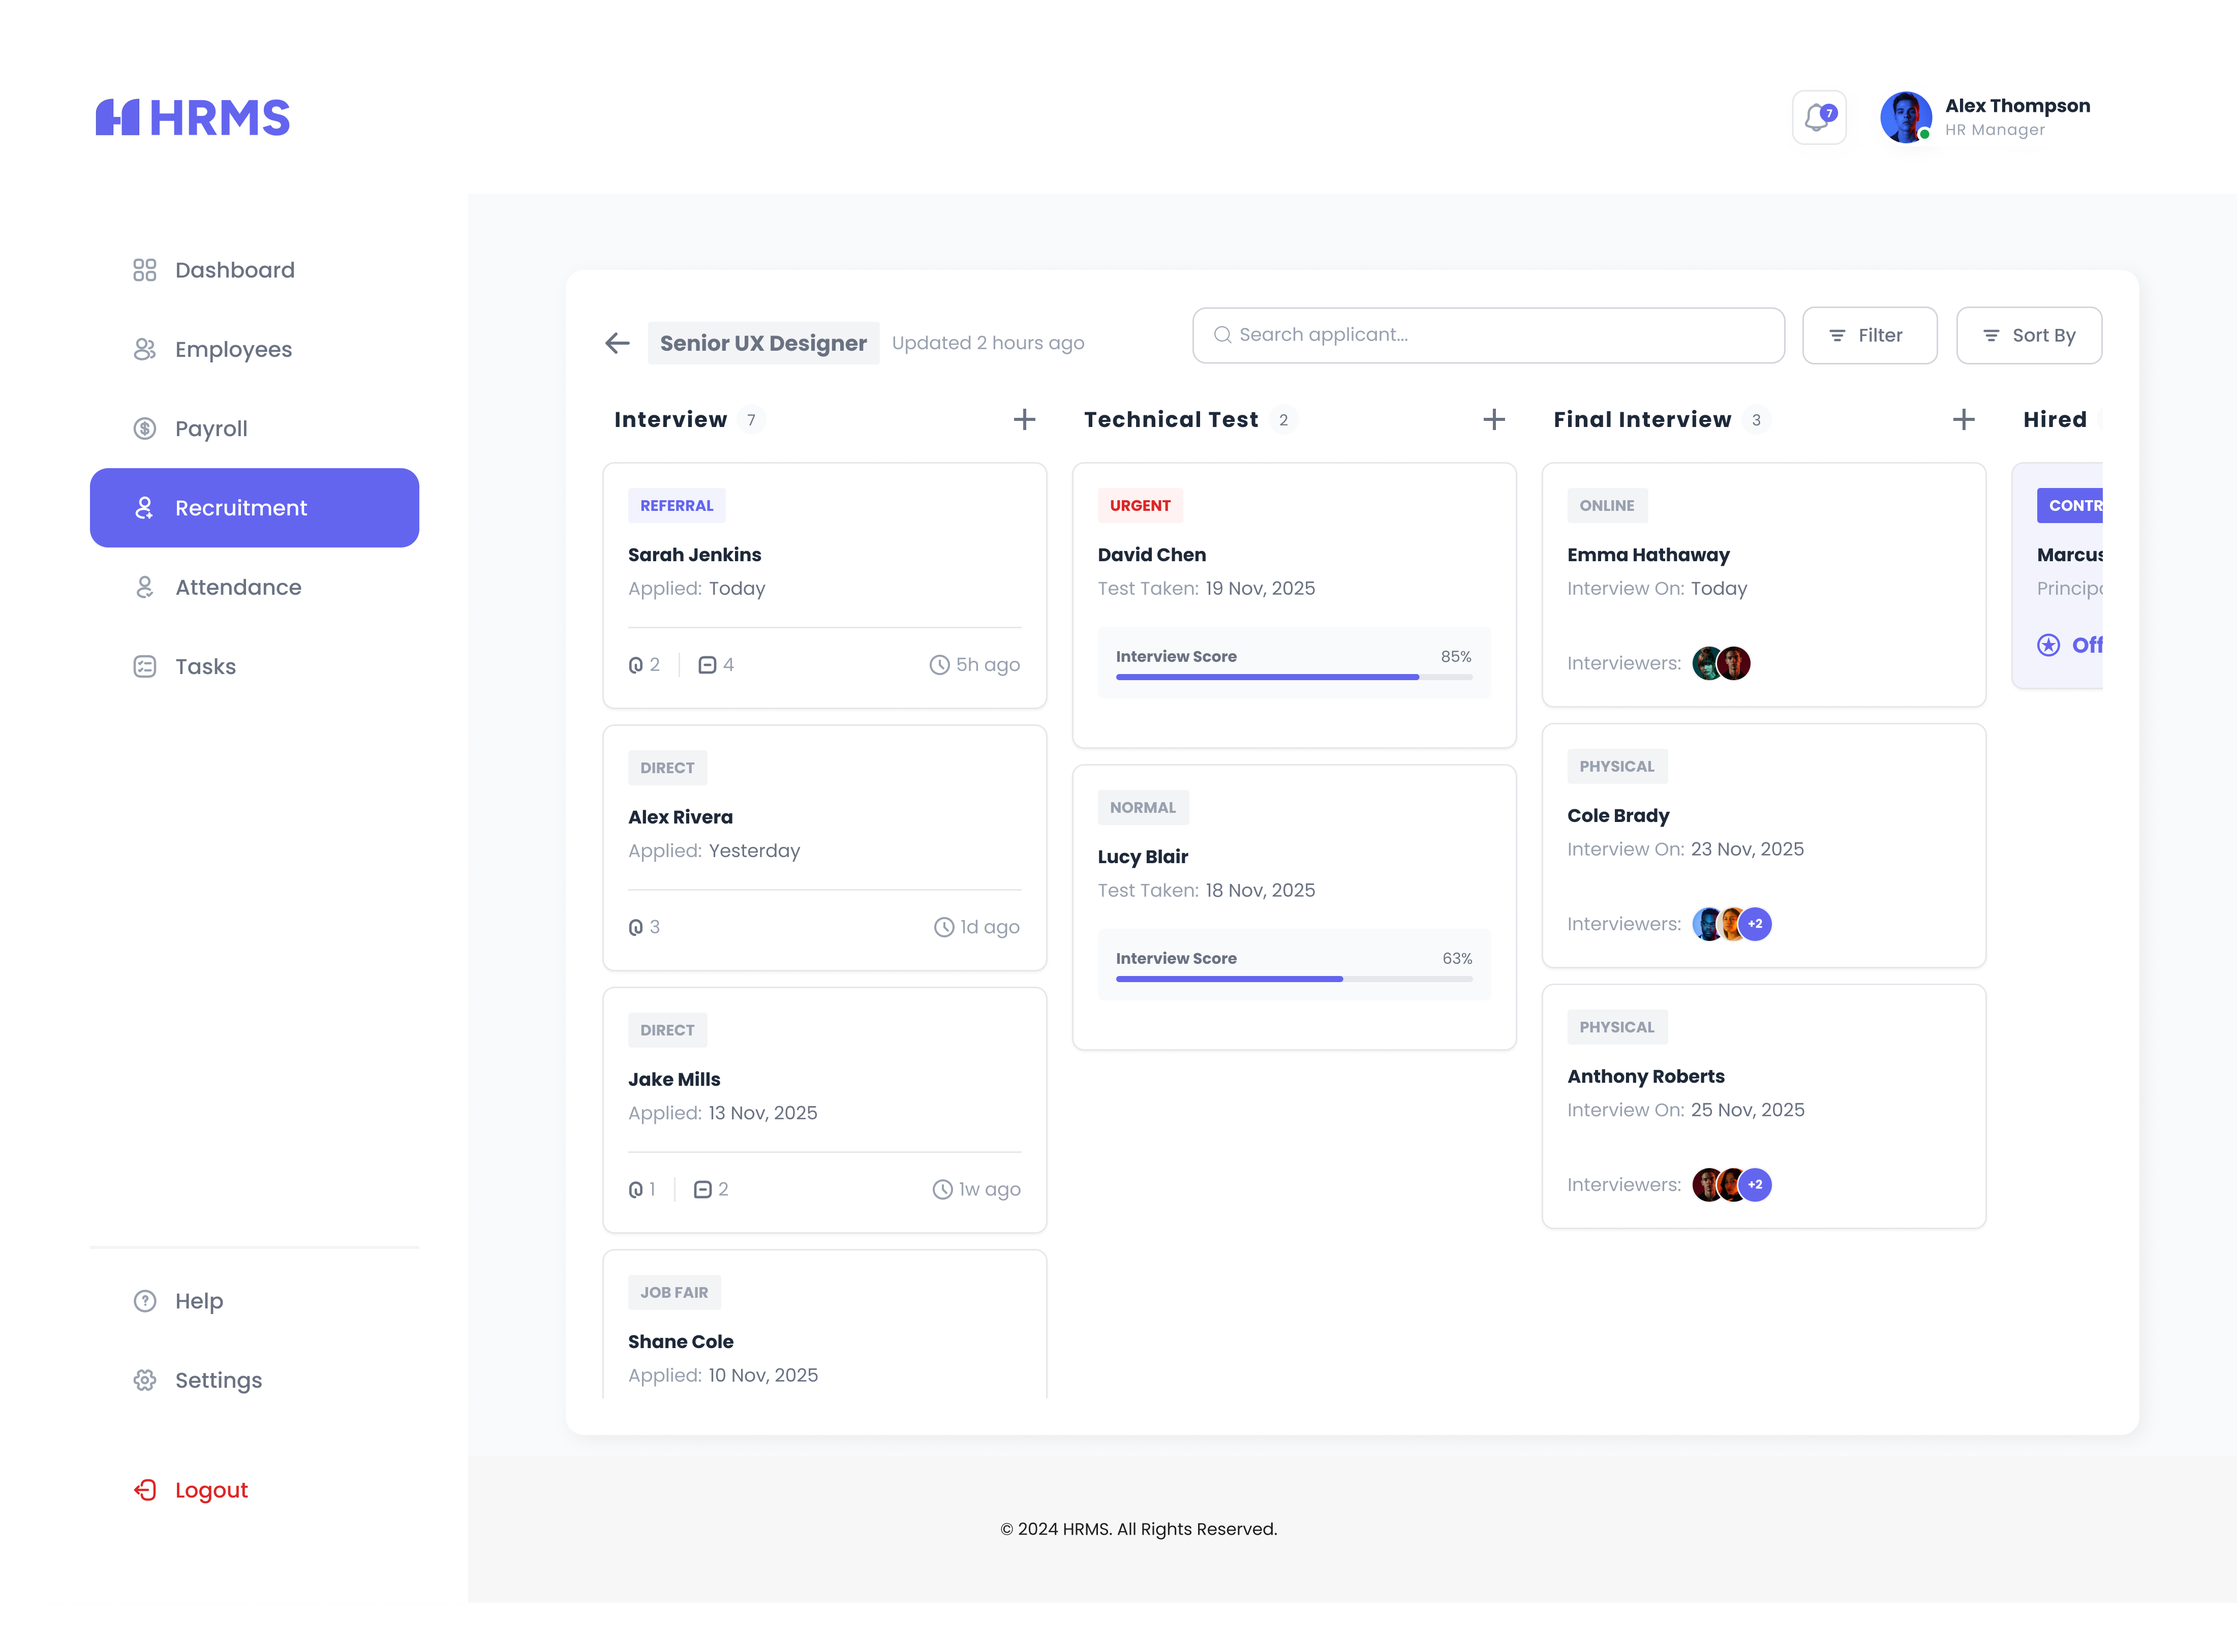
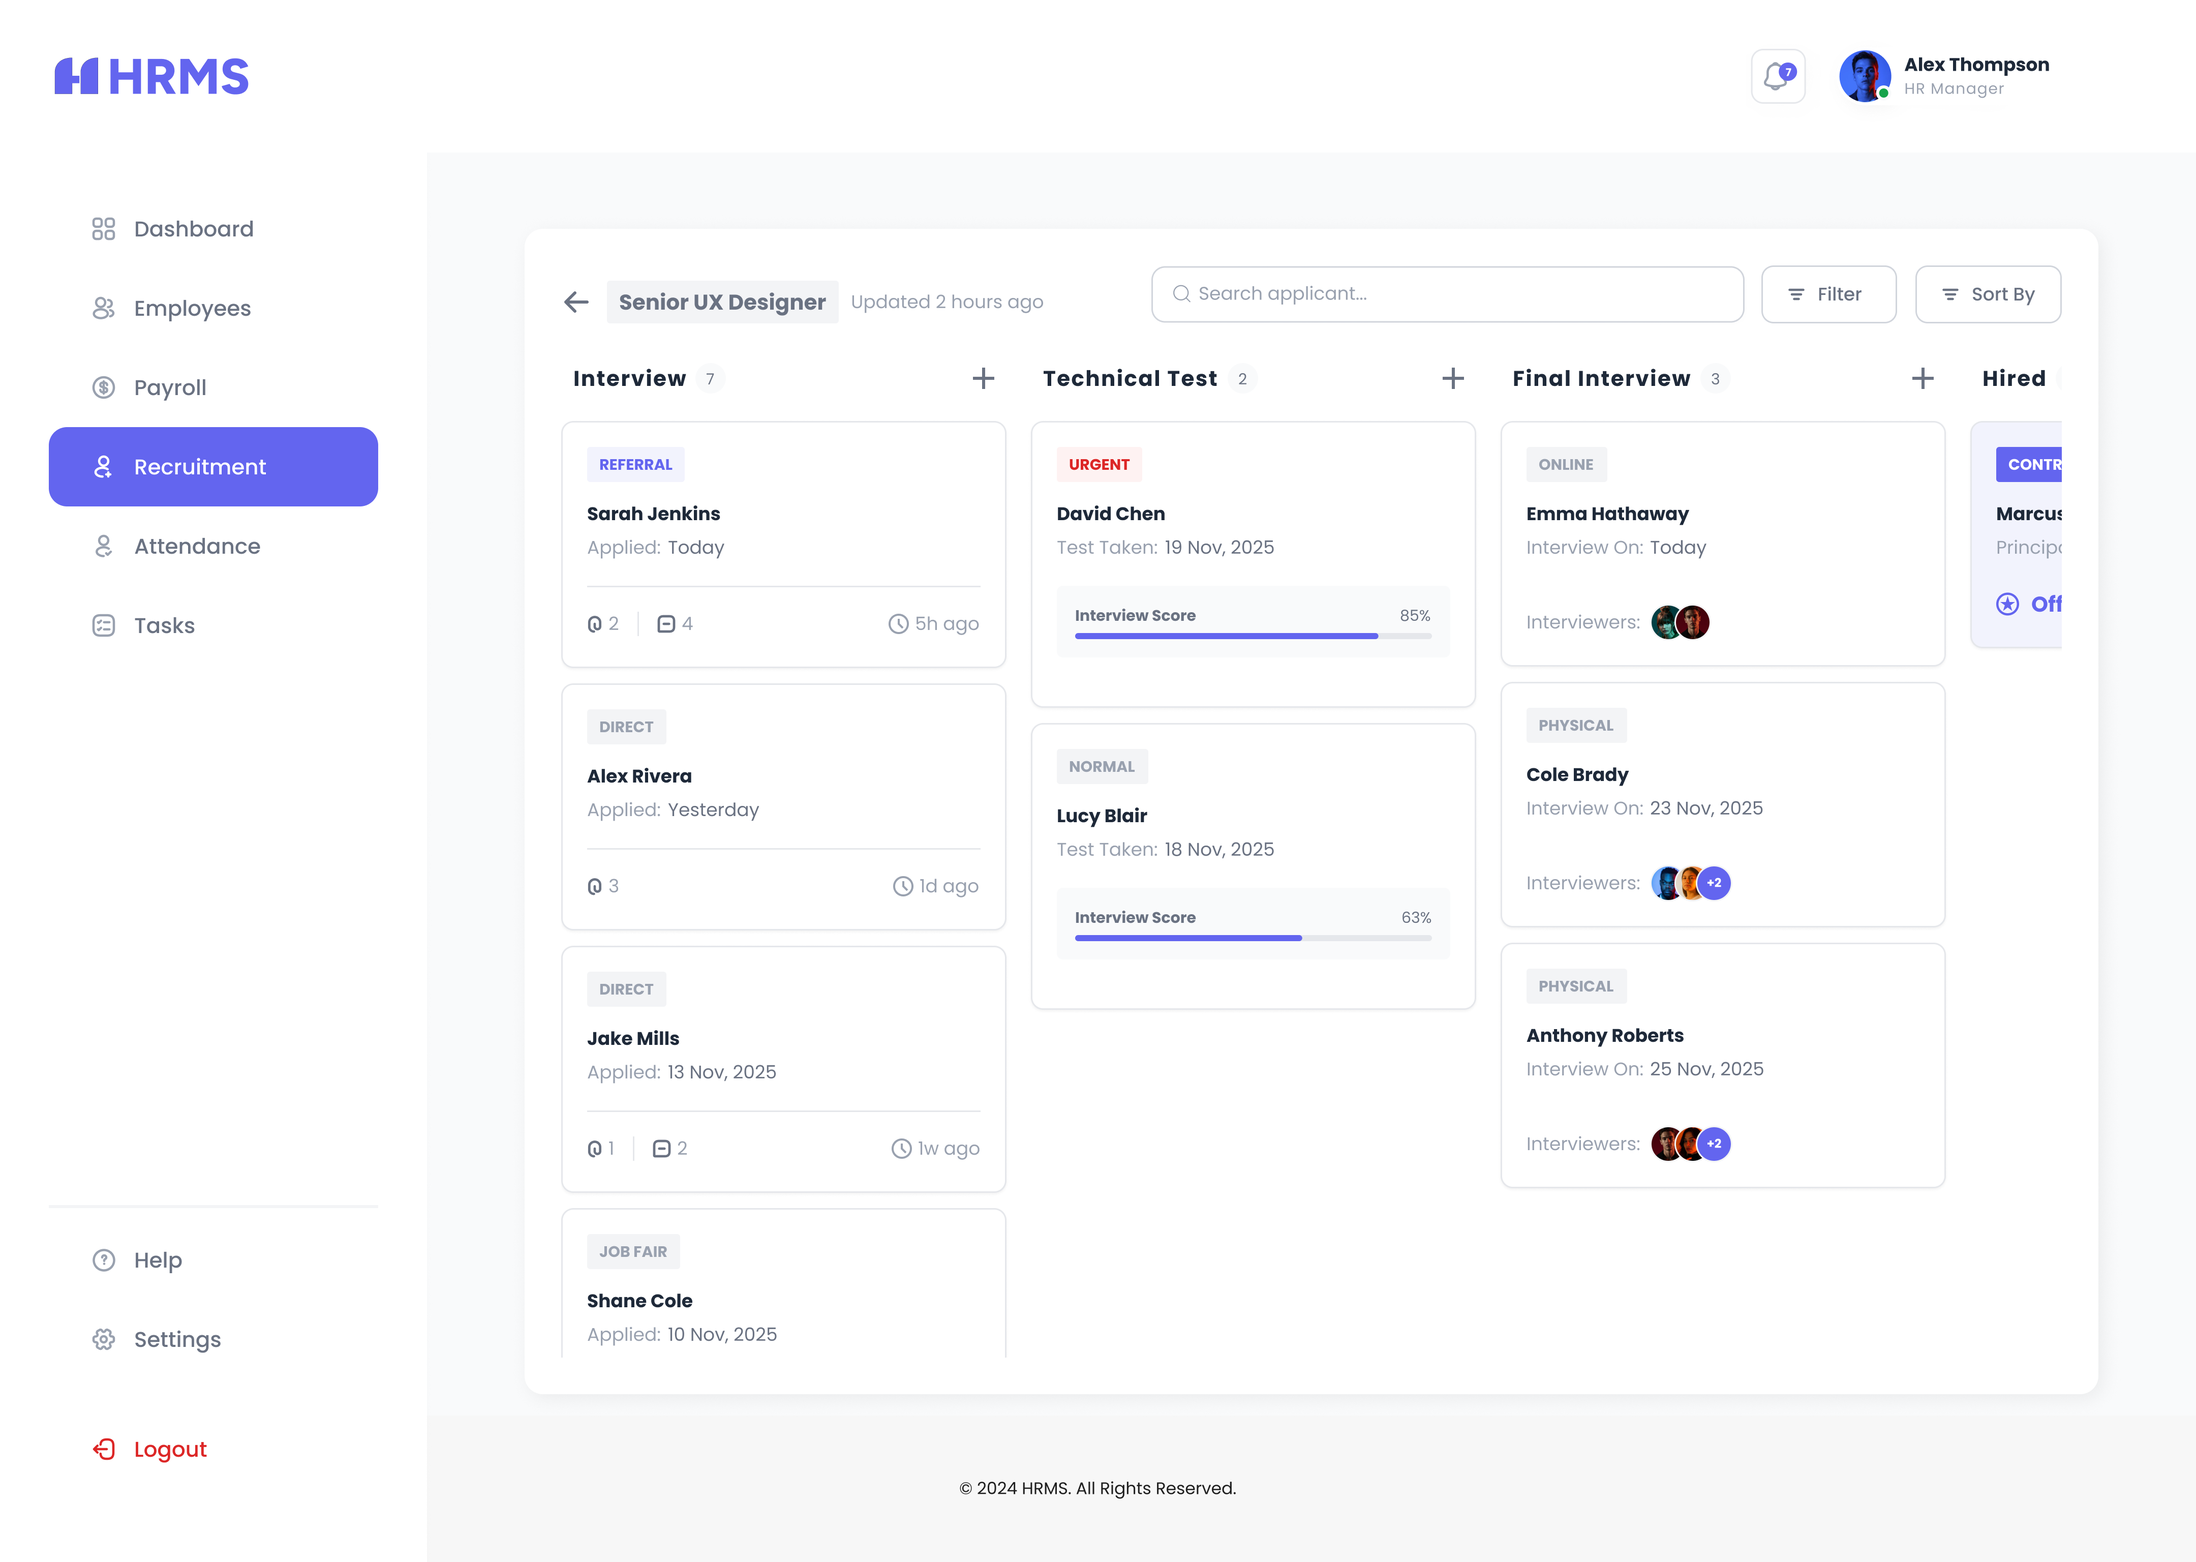
case study, image container style and routing

diff --git a/src/components/CaseStudyPage.jsx b/src/components/CaseStudyPage.jsx
@@ -22,10 +22,10 @@ function ScrollProgress() {
   }, []);
 
   return (
-    <div className="fixed top-[0.1rem] left-0 w-full h-1.5 bg-white-200 dark:bg-black-200 z-50">
+    <div className="fixed left-1 top-1/2 -translate-y-1/2 w-0.5 lg:w-1.5 h-[15vh] lg:h-[30vh] bg-white-200 dark:bg-black-200 z-50">
       <div
-        className="h-full bg-black dark:bg-white transition-all duration-75"
-        style={{ width: `${scrollProgress}%` }}
+        className="w-full bg-black dark:bg-white transition-[height] duration-150 ease-out"
+        style={{ height: `${scrollProgress}%` }}
       />
     </div>
   );
@@ -37,7 +37,7 @@ function RenderHeading({ section }) {
   return (
     <h2
       id={section.id}
-      className="font-bold text-2xl md:text-3xl tracking-tight text-black-200 dark:text-white-200 mt-14 mb-4 scroll-mt-20"
+      className="font-bold text-2xl md:text-3xl tracking-tight text-black-200 dark:text-white-200 mt-14 mb-1 scroll-mt-20"
     >
       {section.text}
     </h2>
@@ -51,7 +51,7 @@ function RenderText({ section }) {
       {paragraphs.map((para, i) => (
         <div
           key={i}
-          className="text-black-400 dark:text-white-400 leading-relaxed text-base m-0 animate-fade-in"
+          className="text-gray-500 dark:text-gray-500 leading-[1.8] text-base m-0 animate-fade-in"
           dangerouslySetInnerHTML={{ __html: para }}
         />
       ))}
@@ -96,7 +96,7 @@ function RenderImage({ section, onImageClick }) {
 function RenderList({ section }) {
   if (section.listType === "ordered") {
     return (
-      <ol className="flex flex-col gap-2.5 pl-6 list-decimal text-black-400 dark:text-white-400">
+      <ol className="flex flex-col gap-3 pl-6 list-decimal text-gray-500 dark:text-gray-500">
         {section.items.map((item, i) => (
           <li
             key={i}
@@ -534,14 +534,14 @@ function RelatedStudies({ slugs }) {
         <div className="h-[1px] bg-white-200 dark:bg-black-200" />
       </div>
 
-      <div className="grid grid-cols-1 md:grid-cols-2 gap-6">
+      <div className="flex flex-col gap-6">
         {items.map(({ slug, title, tag }) => (
           <a
             key={slug}
             href={`/${slug}`}
             target="_blank"
             rel="noopener noreferrer"
-            className="no-underline group block p-6 border border-white-200 dark:border-black-200 bg-white-50 dark:bg-black-50 hover:bg-white-100 dark:hover:bg-black-100 transition-all duration-300 rounded-none"
+            className="no-underline group block w-full p-6 border border-white-200 dark:border-black-200 bg-white-50 dark:bg-black-50 hover:bg-white-100 dark:hover:bg-black-100 transition-all duration-300 rounded-none"
           >
             <article className="flex flex-col gap-3">
               {tag && (
@@ -752,7 +752,7 @@ export default function CaseStudyPage({ slug }) {
 
       <main className="bg-white dark:bg-black py-12 px-6 sm:px-8">
         {/* Main Content Wrapper */}
-        <div className="max-w-[780px] mx-auto">
+        <div className="max-w-[700px] mx-auto">
           {/* Eyebrow + Title */}
           <div>
             <p className="text-xs font-semibold tracking-widest uppercase text-black-400 dark:text-white-400 mb-2">
@@ -763,23 +763,23 @@ export default function CaseStudyPage({ slug }) {
             </h1>
           </div>
 
-          {/* Metadata Block */}
-          <div className="grid grid-cols-2 sm:grid-cols-4 gap-6 py-6 border-y border-white-200 dark:border-black-200 my-8">
-            <div>
-              <p className="text-xs font-bold text-black-600 dark:text-white-600 uppercase tracking-widest mb-1.5">Role</p>
-              <p className="text-sm font-semibold text-black-200 dark:text-white-200 leading-snug">{study.metadata.role}</p>
+          {/* Metadata Block - Stacked Vertically with Straight Dividers */}
+          <div className="flex flex-col border-y border-white-100 dark:border-black-100 my-8">
+            <div className="flex flex-col sm:flex-row sm:items-center py-4 border-b border-white-100 dark:border-black-100">
+              <span className="text-xs font-bold text-black-600 dark:text-white-600 uppercase tracking-widest w-32 shrink-0 mb-1 sm:mb-0">Role</span>
+              <span className="text-sm font-semibold text-black-200 dark:text-white-200 leading-snug">{study.metadata.role}</span>
             </div>
-            <div>
-              <p className="text-xs font-bold text-black-600 dark:text-white-600 uppercase tracking-widest mb-1.5">Duration</p>
-              <p className="text-sm font-semibold text-black-200 dark:text-white-200 leading-snug">{study.metadata.duration}</p>
+            <div className="flex flex-col sm:flex-row sm:items-center py-4 border-b border-white-100 dark:border-black-100">
+              <span className="text-xs font-bold text-black-600 dark:text-white-600 uppercase tracking-widest w-32 shrink-0 mb-1 sm:mb-0">Duration</span>
+              <span className="text-sm font-semibold text-black-200 dark:text-white-200 leading-snug">{study.metadata.duration}</span>
             </div>
-            <div>
-              <p className="text-xs font-bold text-black-600 dark:text-white-600 uppercase tracking-widest mb-1.5">Tools</p>
-              <p className="text-sm font-semibold text-black-200 dark:text-white-200 leading-snug">{study.metadata.tools}</p>
+            <div className="flex flex-col sm:flex-row sm:items-center py-4 border-b border-white-100 dark:border-black-100">
+              <span className="text-xs font-bold text-black-600 dark:text-white-600 uppercase tracking-widest w-32 shrink-0 mb-1 sm:mb-0">Tools</span>
+              <span className="text-sm font-semibold text-black-200 dark:text-white-200 leading-snug">{study.metadata.tools}</span>
             </div>
-            <div>
-              <p className="text-xs font-bold text-black-600 dark:text-white-600 uppercase tracking-widest mb-1.5">Type</p>
-              <p className="text-sm font-semibold text-black-200 dark:text-white-200 leading-snug">{study.metadata.type}</p>
+            <div className="flex flex-col sm:flex-row sm:items-center py-4">
+              <span className="text-xs font-bold text-black-600 dark:text-white-600 uppercase tracking-widest w-32 shrink-0 mb-1 sm:mb-0">Type</span>
+              <span className="text-sm font-semibold text-black-200 dark:text-white-200 leading-snug">{study.metadata.type}</span>
             </div>
           </div>
 
@@ -791,7 +791,7 @@ export default function CaseStudyPage({ slug }) {
           <div className="mb-10">
             <button
               onClick={toggleMode}
-              className="py-2.5 px-6 border border-black dark:border-white text-xs font-bold tracking-widest uppercase bg-transparent text-black-200 dark:text-white-200 hover:bg-black hover:text-white dark:hover:bg-white dark:hover:text-black transition-colors duration-300 cursor-pointer rounded-none"
+              className="py-2.5 px-6 border border-white-400 bg-white-100 dark:border-black-400 dark:bg-black-100 text-sm font-bold tracking-widest  text-black-200 dark:text-white-200 hover:bg-black hover:text-white dark:hover:bg-white dark:hover:text-black transition-colors duration-300 cursor-pointer rounded-none"
             >
               {showFull ? "Switch to Summary" : "Read Full Case Study"}
             </button>
@@ -808,7 +808,7 @@ export default function CaseStudyPage({ slug }) {
                   Summary
                 </p>
                 <div
-                  className="text-black-400 dark:text-white-400 leading-relaxed text-base"
+                  className="case-study-summary"
                   dangerouslySetInnerHTML={{ __html: study.summary }}
                 />
                 <div className="mt-8 pt-4 border-t border-white-200 dark:border-black-200">
@@ -839,6 +839,8 @@ export default function CaseStudyPage({ slug }) {
         </div>
       </main>
 
+      {/* Footer Separator */}
+      <div className="w-full border-t border-white-200 dark:border-black-200 mt-20" />
       {/* Footer */}
       <Footer />
 

diff --git a/src/sections/Projects.jsx b/src/sections/Projects.jsx
@@ -8,7 +8,27 @@ import TitleHeader from "../components/TitleHeader";
 
 const Projects = () => {
   const sectionRef = useRef(null);
-  const [domain, setDomain] = useState("mobile");
+  const [domain, setDomain] = useState(() => {
+    const params = new URLSearchParams(window.location.search);
+    const tabParam = params.get("tab");
+    if (tabParam && ["mobile", "web", "design"].includes(tabParam)) {
+      return tabParam;
+    }
+    const savedTab = sessionStorage.getItem("selectedTab");
+    if (savedTab && ["mobile", "web", "design"].includes(savedTab)) {
+      return savedTab;
+    }
+    return "mobile";
+  });
+
+  const changeTab = (newDomain) => {
+    setDomain(newDomain);
+    sessionStorage.setItem("selectedTab", newDomain);
+    const url = new URL(window.location.href);
+    url.searchParams.set("tab", newDomain);
+    window.history.replaceState({}, "", url.toString());
+  };
+
   const [isDark, setIsDark] = useState(() =>
     document.documentElement.classList.contains("dark"),
   );
@@ -75,7 +95,7 @@ const Projects = () => {
               }}
             >
               <div
-                onClick={() => setDomain(item.domain)}
+                onClick={() => changeTab(item.domain)}
                 className={`${
                   item.domain === domain
                     ? "blue-gradient"

diff --git a/src/components/ProjectInfo.jsx b/src/components/ProjectInfo.jsx
@@ -197,15 +197,17 @@ const ProjectInfo = ({ domainType }) => {
                   </a>
                 )}
                 {domainType === "design" ? (
-                  <Link
+                  <a
                     className="cursor-pointer relative font-medium overflow-hidden group text-black-200 dark:text-white-200 text-xl flex gap-1 items-center justify-center"
-                    to={proj.title === "SafeTrack" ? "/safetrack" : "/hrms"}
+                    href={proj.title === "SafeTrack" ? "/safetrack" : "/hrms"}
+                    target="_blank"
+                    rel="noopener noreferrer"
                   >
                     <p className="text-base md:text-lg ml-0">Case Study</p>
 
                     <FaArrowUp className="rotate-45" size={15} />
                     <div className="w-[100%] absolute left-0 bottom-0 h-[0.1rem] bg-black dark:bg-white -translate-x-[102%] group-hover:translate-x-0 transition-transform duration-200"></div>
-                  </Link>
+                  </a>
                 ) : (
                   <a
                     className="cursor-pointer relative font-medium overflow-hidden group text-black-200 dark:text-white-200 text-xl flex gap-1 items-center justify-center"

diff --git a/src/index.css b/src/index.css
@@ -39,8 +39,7 @@ body {
   justify-content: center;
   /* border: 1px solid red; */
   overflow-x: hidden;
-  background-color: white;
-  /* color: white; */
+  @apply bg-white dark:bg-black text-black-200 dark:text-white-200;
   scroll-behavior: smooth;
   font-family: "Mona Sans", sans-serif;
 }
@@ -512,3 +511,41 @@ section {
     --angle: 360deg;
   }
 }
+
+/* Custom global thin scrollbar with sharp borders */
+::-webkit-scrollbar {
+  width: 6px;
+  height: 6px;
+}
+::-webkit-scrollbar-track {
+  background: transparent;
+}
+::-webkit-scrollbar-thumb {
+  background: #b8b8b8;
+  border-radius: 0px;
+}
+html.dark ::-webkit-scrollbar-thumb {
+  background: #48474b;
+}
+::-webkit-scrollbar-thumb:hover {
+  background: #8d8d8d;
+}
+html.dark ::-webkit-scrollbar-thumb:hover {
+  background: #cecece;
+}
+
+/* Case Study Summary Container Styling */
+.case-study-summary strong {
+  display: block;
+  @apply text-black-200 dark:text-white-200 text-lg font-bold mt-6 mb-2;
+}
+.case-study-summary strong:first-of-type {
+  margin-top: 0;
+}
+.case-study-summary ul {
+  @apply list-disc list-outside pl-5 space-y-2 mb-6;
+}
+.case-study-summary li {
+  @apply text-gray-500 dark:text-gray-500 text-base leading-relaxed;
+}
+

diff --git a/src/constants/case-studies.js b/src/constants/case-studies.js
@@ -5,7 +5,7 @@ const safetrack = {
   heroImage: "/case study/safetrack/bg.png",
   metadata: {
     role: "UX Researcher & UI Designer",
-    duration: "3 weeks",
+    duration: "4 weeks",
     tools: "Figma",
     type: "Mobile App Design",
   },
@@ -378,7 +378,7 @@ const hrms = {
   heroImage: "/case study/hrms/bg.png",
   metadata: {
     role: "UX Researcher & UI Designer",
-    duration: "3 weeks",
+    duration: "4 weeks",
     tools: "Figma",
     type: "Web Application Design",
   },
